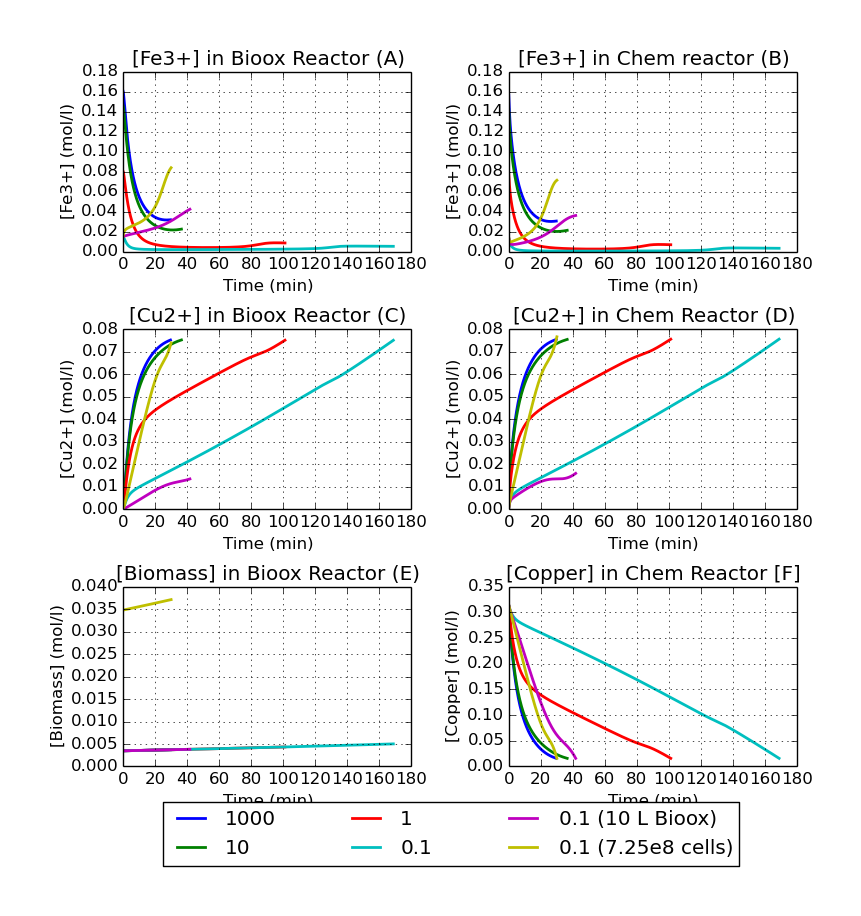
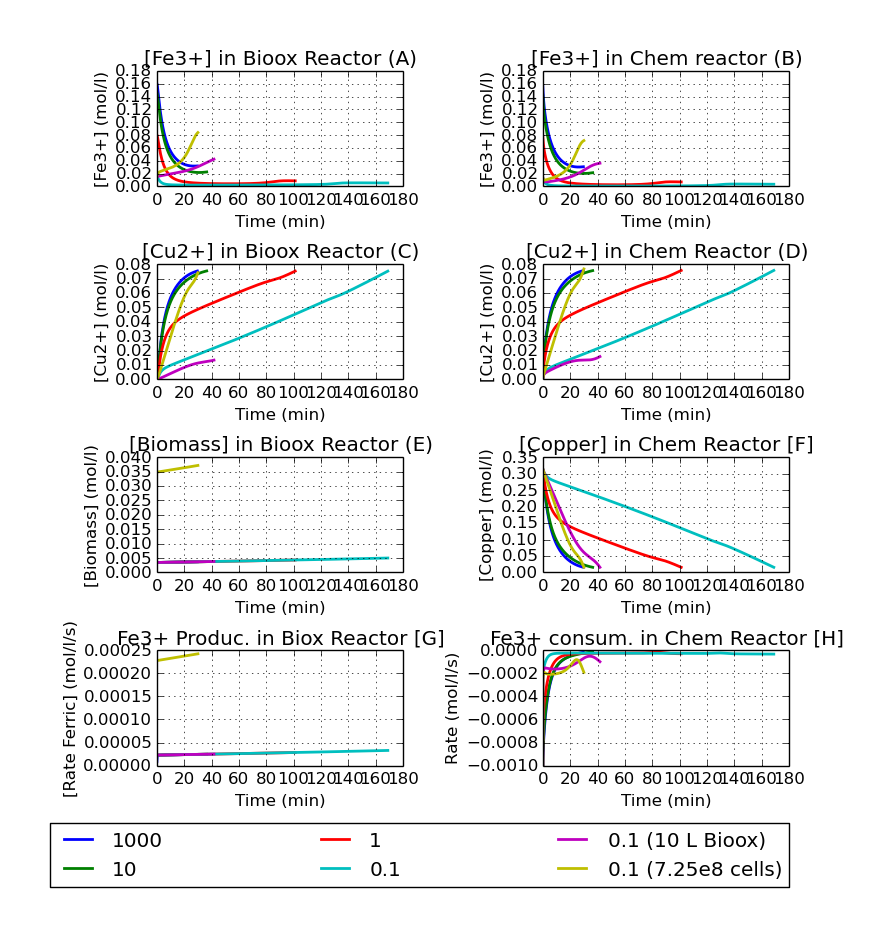
replotting

diff --git a/masters/calculations/management/commands/sensitivity_analysis.py b/masters/calculations/management/commands/sensitivity_analysis.py
@@ -78,7 +78,7 @@ class Command(BaseCommand):
         output = {}
 
         for row in analysis_list:
-            sys = system.System(BIOX, CHEM, FERRIC_FERROUS, IRON, initial_metals={"Cu": 4}, additions=True)
+            sys = system.System(BIOX, CHEM, FERRIC_FERROUS, IRON, initial_metals={"Cu": 20}, additions=True)
             sys.build_cyclic_tanks()
             output[row[1]] = sys.run()
 
@@ -217,23 +217,26 @@ class Command(BaseCommand):
         metals_chem = {}
 
         for k, data in sys_data.iteritems():
-            ferric_biox[k] = {"ferric": [], "time": [], "biomass": [], "Cu2+": []}
+            ferric_biox[k] = {"ferric": [], "time": [], "biomass": [], "Cu2+": [], "rate_ferric": []}
             for row in data["bioxidation"]:
                 ferric_biox[k]["ferric"].append(row["ions"]["ferric"])
                 ferric_biox[k]["time"].append(row["step"])
                 ferric_biox[k]["biomass"].append(row["cstr_data"]["components"]["Biomass"]["component_moles"])
                 ferric_biox[k]["Cu2+"].append(row["flow_out"]["components"]["Cu"])
+                ferric_biox[k]["rate_ferric"].append(row["cstr_data"]["total_rate_ferric"])
 
-            ferric_chem[k] = {"ferric": [], "time": []}
+            ferric_chem[k] = {"ferric": [], "time": [], "rate_ferric": []}
+            metals_chem[k] = {"Cu2+": [], "time": [], "Zn2+": [], "Sn2+": [], "copper": [], "rate_ferric": []}
             for row in data["chemical"]:
                 ferric_chem[k]["ferric"].append(row["ions"]["ferric"])
                 ferric_chem[k]["time"].append(row["step"])
+                ferric_chem[k]["rate_ferric"].append(row["cstr_data"]["total_rate_ferric"])
 
-            metals_chem[k] = {"Cu2+": [], "time": [], "Zn2+": [], "Sn2+": [], "copper": []}
             for row in data["chemical"]:
                 metals_chem[k]["copper"].append(row["cstr_data"]["components"]["Cu"]["component_moles"])
                 metals_chem[k]["Cu2+"].append(row["ions"]["Cu"])
                 metals_chem[k]["time"].append(row["step"])
+
 
                 if self.simulate == "mixed_metals":
                     metals_chem[k]["Zn2+"].append(row["ions"]["Zn"])
@@ -243,7 +246,7 @@ class Command(BaseCommand):
 
         fig = plt.figure(1, figsize=(8, 8))
         # fig.suptitle("Ferric ion Concentration in Biooxidation Reactor")
-        fig_subplot = fig.add_subplot(321)
+        fig_subplot = fig.add_subplot(421)
         fig_subplot.set_xlabel("Time (min)")
         fig_subplot.set_ylabel("[Fe3+] (mol/l)")
         fig_subplot.set_ylim(0, 0.18)
@@ -260,7 +263,7 @@ class Command(BaseCommand):
         #         bbox_inches='tight')
 
 
-        fig_subplot = fig.add_subplot(322)
+        fig_subplot = fig.add_subplot(422)
         fig_subplot.set_xlabel("Time (min)")
         fig_subplot.set_ylabel("[Fe3+] (mol/l)")
         fig_subplot.set_ylim(0, 0.18)
@@ -278,7 +281,7 @@ class Command(BaseCommand):
 
         # fig = plt.figure(2, figsize=(8, 8))
         # fig.suptitle("Ferric ion Concentration in Biooxidation Reactor")
-        fig_subplot = fig.add_subplot(323)
+        fig_subplot = fig.add_subplot(423)
         fig_subplot.set_xlabel("Time (min)")
         fig_subplot.set_ylabel("[Cu2+] (mol/l)")
         fig_subplot.set_title("[Cu2+] in Bioox Reactor (C)")
@@ -297,7 +300,7 @@ class Command(BaseCommand):
 
         # fig = plt.figure(4, figsize=(8, 8))
         # fig.suptitle("Cupric Ion Concentration in Metal Dissolution Reactor")
-        fig_subplot = fig.add_subplot(324)
+        fig_subplot = fig.add_subplot(424)
         fig_subplot.set_xlabel("Time (min)")
         fig_subplot.set_ylabel("[Cu2+] (mol/l)")
         fig_subplot.set_title("[Cu2+] in Chem Reactor (D)")
@@ -316,7 +319,7 @@ class Command(BaseCommand):
                 line.set_linewidth(2)
 
 
-        fig_subplot = fig.add_subplot(325)
+        fig_subplot = fig.add_subplot(425)
         fig_subplot.set_xlabel("Time (min)")
         fig_subplot.set_ylabel("[Biomass] (mol/l)")
         fig_subplot.set_title("[Biomass] in Bioox Reactor (E)")
@@ -328,7 +331,7 @@ class Command(BaseCommand):
             line.set_linewidth(2)
 
 
-        fig_subplot = fig.add_subplot(326)
+        fig_subplot = fig.add_subplot(426)
         fig_subplot.set_xlabel("Time (min)")
         fig_subplot.set_ylabel("[Copper] (mol/l)")
         fig_subplot.set_title("[Copper] in Chem Reactor [F]")
@@ -340,8 +343,31 @@ class Command(BaseCommand):
             line.set_linewidth(2)
 
 
+        fig_subplot = fig.add_subplot(427)
+        fig_subplot.set_xlabel("Time (min)")
+        fig_subplot.set_ylabel("[Rate Ferric] (mol/l/s)")
+        fig_subplot.set_title("Fe3+ Produc. in Biox Reactor [G]")
+        # fig_subplot.set_ylim(0, 0.18)
+        fig_subplot.grid('on')
+
+        for i, item in enumerate(analysis_list):
+            line, = fig_subplot.plot(ferric_biox[item[1]]["time"], ferric_biox[item[1]]["rate_ferric"], label=item[1])
+            line.set_linewidth(2)
+
+        fig_subplot = fig.add_subplot(428)
+        fig_subplot.set_xlabel("Time (min)")
+        fig_subplot.set_ylabel("Rate (mol/l/s)")
+        fig_subplot.set_title("Fe3+ consum. in Chem Reactor [H]")
+        fig_subplot.set_ylim(-0.001, 0.)
+        fig_subplot.grid('on')
+
+        for i, item in enumerate(analysis_list):
+            line, = fig_subplot.plot(ferric_chem[item[1]]["time"], ferric_chem[item[1]]["rate_ferric"], label=item[1])
+            line.set_linewidth(2)
+
+
         if not self.simulate == "additions":
-            plt.legend(ncol=3, mode="expand", borderaxespad=0., bbox_to_anchor=(-1.2, -0.3, 1.*2, .102))
+            plt.legend(ncol=3, mode="expand", borderaxespad=0., bbox_to_anchor=(-2, -0.6, 1.*3, .102))
         # plt.legend(loc='center left', bbox_to_anchor=(1, 1))
         # plt.subplots_adjust(bottom=0.5)
 

diff --git a/masters/calculations/system.py b/masters/calculations/system.py
@@ -160,8 +160,8 @@ class System(object):
             unit.step = step
 
     def additions_update(self):
-        self.chem_cstr.components[0].component_conc = 4.0 / 63.55
-        self.initial_metals["Cu"] = 4.0 / 63.55
+        self.chem_cstr.components[0].component_conc = 20.0 / 63.55
+        self.initial_metals["Cu"] = 20.0 / 63.55
         self.chem_cstr.components[0].metal_ion = 0.0
         self.chem_cstr.components[0].reaction_step = 0
         self.additions_index += 1
